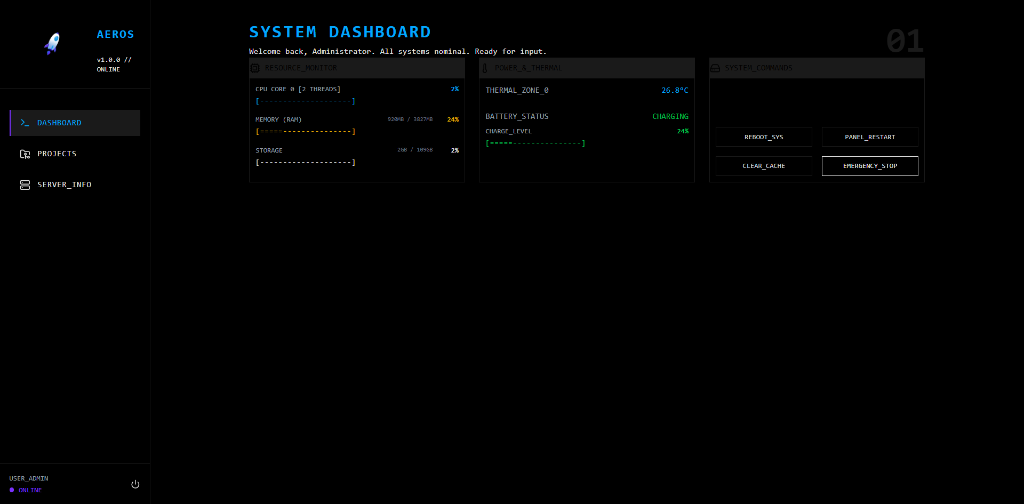
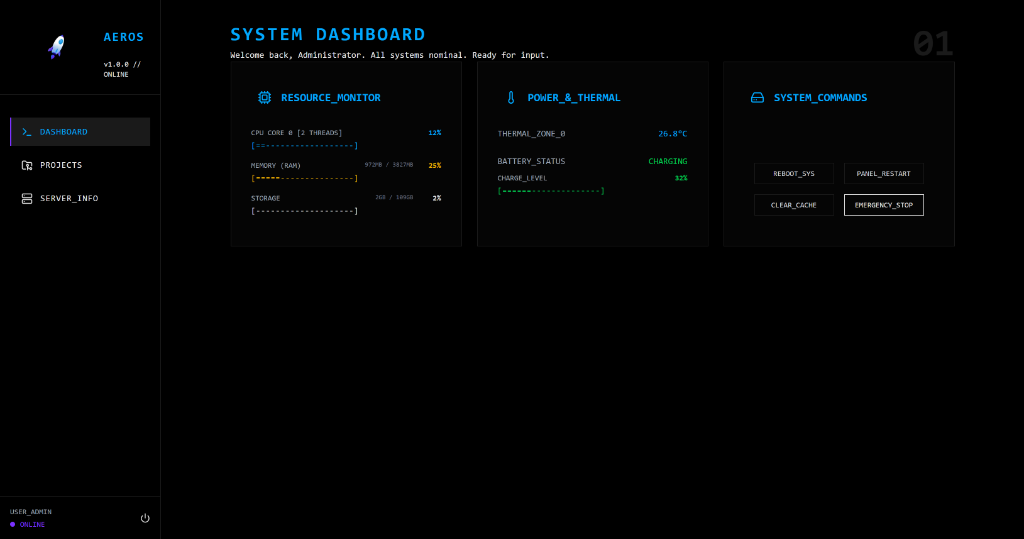
Update repository screenshots in README

diff --git a/README.md b/README.md
@@ -5,7 +5,9 @@ A zero-overhead, hyper-optimized control panel designed specifically for managin
 ## Screenshots
 
 ![Dashboard](docs/dashboard.png)
-![Projects](docs/projects.png)
+![Projects List](docs/projects-list.png)
+![Terminal](docs/projects-terminal.png)
+![Server Info](docs/server-info.png)
 
 Unlike heavy alternatives like Coolify or Pterodactyl that rely on Docker and complex proxies, AerosPanel interfaces directly with native Linux tools to keep the hardware footprint at absolute zero when idle.
 
